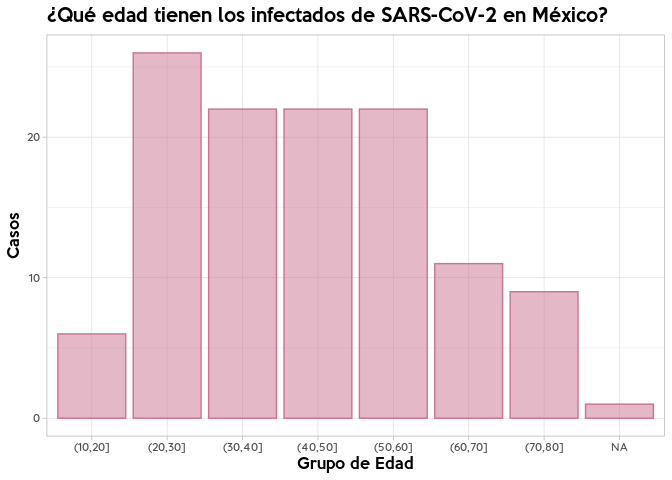
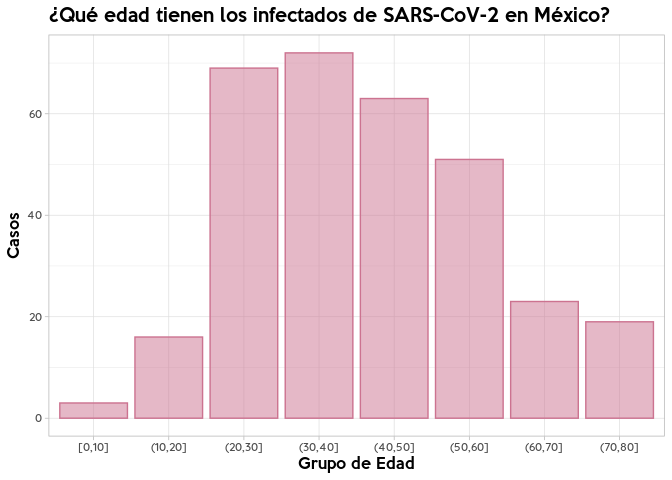
README updated

diff --git a/README.md b/README.md
@@ -3,7 +3,7 @@ covidMex
 
 Un paquete para obtener datos oficiales sobre casos de Covid-19 en
 México. Creado por [Pablo Reyes](https://twitter.com/pablorm296).
-Última actualizacion: **Mon Mar 23 01:02:48 2020**
+Última actualizacion: **Mon Mar 23 01:31:24 2020**
 
 ## Instalación :package:
 
@@ -18,9 +18,29 @@ devtools::install_github("pablorm296/covidMex")
 
 ### Básicos
 
-Para obtener los datos, usa la función `getData`. Usando el parámetro
-`type` puedes especificar el tipo de reporte a cargar (casos confirmados
-o casos sospechosos) y con el parámetro `date`especificas la versión del
+Para obtener el reporte oficial más reciente sobre los **casos
+confirmados** en México, usa la función `covidConfirmedMx`. Para obtener
+el reporte oficial más reciente sobre los **casos sospechosos** en
+México, usa la función `covidSuspectsMx`.
+
+``` r
+library(covidMex)
+
+# Descargar reporte de casos sospechosos
+sospechosos <- covidSuspectsMx()
+
+# Descargar reporte de casos confirmados
+confirmados <- covidConfirmedMx()
+```
+
+### Avanzado
+
+Tanto `covidConfirmedMx` como `covidSuspectsMx` son
+[*wrappers*](https://stat.ethz.ch/pipermail/r-help/2008-March/158393.html)
+de `getData`. La función `getData` te permite descargar el reporte
+oficial con unas cuantas opciones extras. Con el parámetro `type` puedes
+especificar el tipo de reporte a cargar (casos confirmados o casos
+sospechosos) y con el parámetro `date` especificas la versión del
 reporte (fecha en que fue publicado). Por default, `getData` descargará
 el reporte del día de casos confirmados (`type = "suspect", date =
 "today"`). Si todavía no se publica el reporte diario, `getData`
@@ -28,8 +48,6 @@ descargará el reporte del día anterior y notificará al usuario por medio
 de una `warning`.
 
 ``` r
-library(covidMex)
-
 # Descargar reporte de casos sospechosos
 sospechosos <- getData(type = "suspect", source = "Serendipia")
 
@@ -95,13 +113,16 @@ También debes tomar en cuenta que los datos devueltos por `getData`
 objetos `Date`, los nombres de las entidades federativas se ponen en
 mayúscula y los nombres de las columnas son transformados al estandar
 que maneja [el repositorio de Katia
-Guzmán](https://github.com/guzmart/covid19_mex).
+Guzmán](https://github.com/guzmart/covid19_mex). Puedes usar el
+parámetro `neat = FALSE` para obtener una versión *as is* del reporte.
 
 ### Generando gráficas a partir de los datos
 
 ``` r
-confirmados %>%
-  mutate(GrupoEdad = cut(edad, breaks = c(seq(0, 80, by = 10), Inf))) %>%
+covidConfirmedMx() %>%
+  mutate(GrupoEdad = cut(edad, 
+                         breaks = c(seq(0, 80, by = 10), Inf),
+                         include.lowest = T)) %>%
   ggplot() +
   geom_bar(aes(x = GrupoEdad, y = ..count..), colour = "#CC7390", 
            fill = "#CC7390", alpha = 0.5, na.rm = T) +
@@ -112,7 +133,7 @@ confirmados %>%
         title = element_text(family = "Keep Calm Med"))
 ```
 
-![](README_files/figure-gfm/unnamed-chunk-3-1.png)<!-- -->
+![](README_files/figure-gfm/unnamed-chunk-4-1.png)<!-- -->
 
 ## Fuentes
 
@@ -191,17 +212,17 @@ en:**
 
   - `covidSuspectsMx` and `covidConfirmedMx` functions. These are “super
     easy/fast to use” wrappers of `getData`.
-
-#### Changed
-
-  - Some data cleaning is performed on the returned `tibbles` by
+  - Parameter `neat` in `getData`, `GetFromSerendipia`, and
+    `GetFromGuzmart` functions. This parameter allows user to decide if
+    some data cleaning is performed on the returned `tibbles` by
     `GetFromSerendipia` and `GetFromGuzmart`. Specially, propper date
-    parsing and state name
-capitalizing.
+    parsing and state name capitalizing.
 
 #### Fixed
 
-  - 
+  - Typos in README and functions
+comments.
+
 ## Licencia
 
 <a rel="license" href="http://creativecommons.org/licenses/by-nc-sa/4.0/"><img alt="Licencia Creative Commons" style="border-width:0" src="https://i.creativecommons.org/l/by-nc-sa/4.0/88x31.png" /></a><br />Esta
